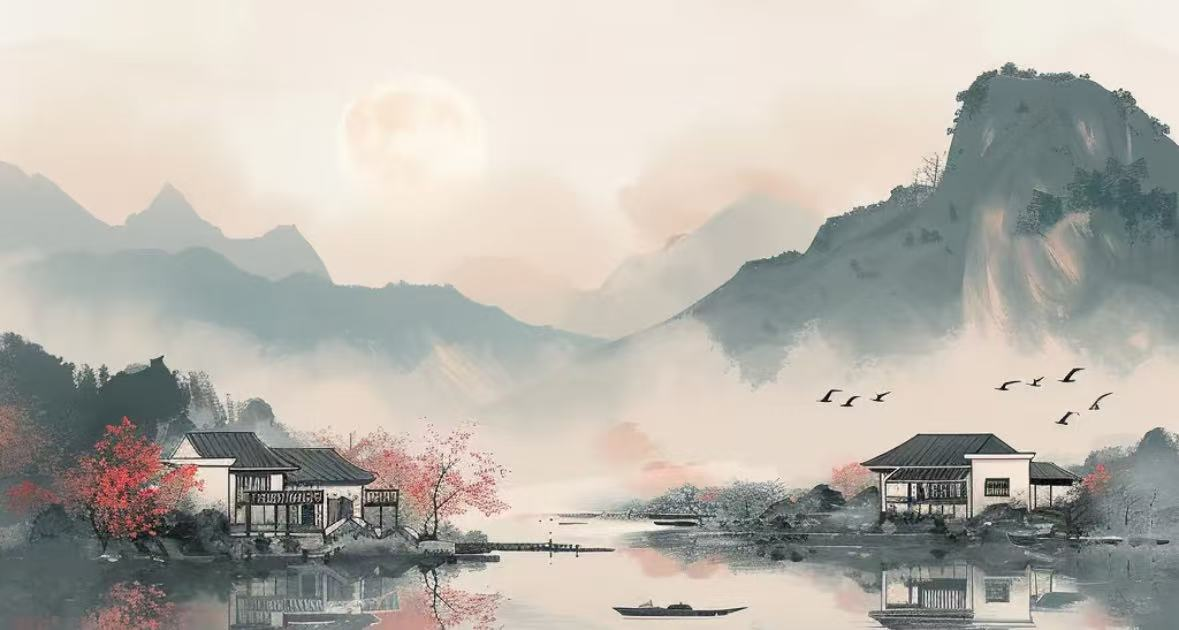
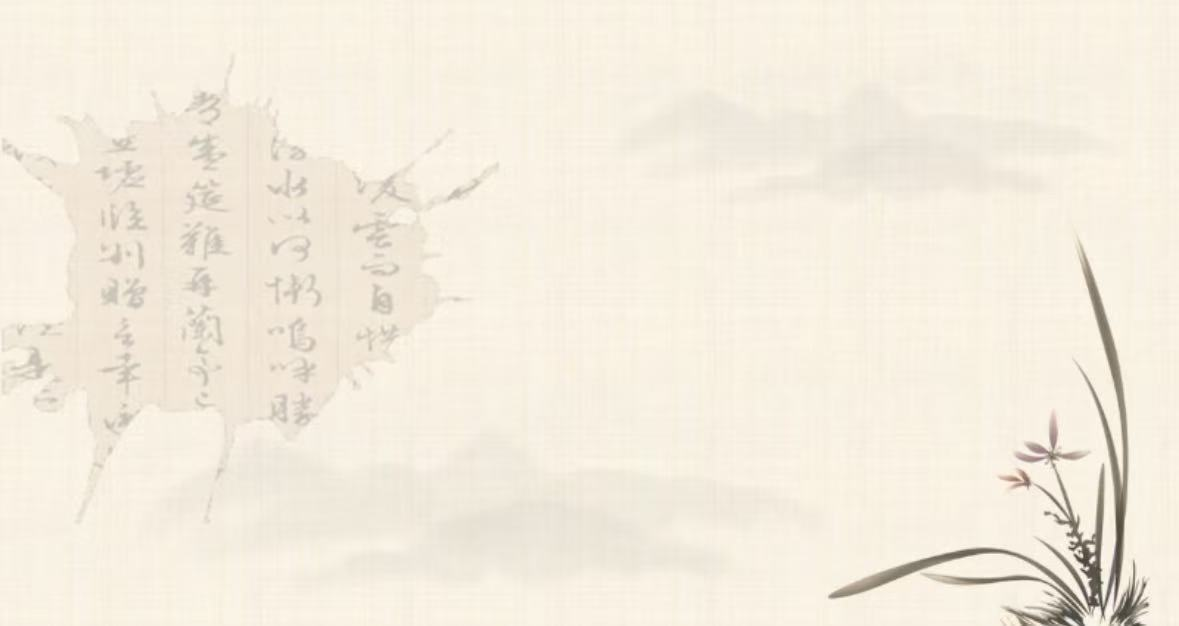
init

diff --git a/css/style.css b/css/style.css
@@ -297,25 +297,27 @@ button { border: none; background: none; cursor: pointer; font: inherit; }
   z-index: 12;
   transform: translate(-50%, -50%);
   display: none;
-  flex-direction: column;
   align-items: center;
   justify-content: center;
-  gap: 10px;
-  width: auto;
-  min-width: 120px;
-  padding: 18px 28px;
-  border-radius: 999px;
+  width: 64px;
+  height: 64px;
+  padding: 0;
+  border-radius: 50%;
   border: 1px solid rgba(255, 255, 255, 0.55);
   background: rgba(0, 0, 0, 0.55);
   color: #fff;
-  font-size: 15px;
-  font-weight: 600;
-  letter-spacing: 2px;
   cursor: pointer;
   pointer-events: auto;
   box-shadow: 0 8px 28px rgba(0, 0, 0, 0.35);
   backdrop-filter: blur(8px);
   transition: background 0.25s, transform 0.25s;
+}
+
+.slide-video-play svg {
+  display: block;
+  width: 28px;
+  height: 28px;
+  margin-left: 3px;
 }
 
 .slide-video-play.is-visible {
@@ -325,11 +327,7 @@ button { border: none; background: none; cursor: pointer; font: inherit; }
 .slide-video-play:hover,
 .slide-video-play:active {
   background: rgba(0, 0, 0, 0.72);
-  transform: translate(-50%, -50%) scale(1.04);
-}
-
-.slide-video-play span {
-  line-height: 1;
+  transform: translate(-50%, -50%) scale(1.06);
 }
 
 .slide-video {

diff --git a/js/main.js b/js/main.js
@@ -304,12 +304,21 @@
       (slideVideo.paused || slideVideo.readyState < 2);
     playBtn.classList.toggle('is-visible', show);
     playBtn.hidden = !show;
+    refreshSoundBtnVisibility();
   }
 
   function hideVideoPlayBtn() {
     if (!playBtn) return;
     playBtn.classList.remove('is-visible');
     playBtn.hidden = true;
+    refreshSoundBtnVisibility();
+  }
+
+  function refreshSoundBtnVisibility() {
+    if (!soundBtn) return;
+    var onVideoSlide = isVideoSlide(slideIndex);
+    var playVisible = playBtn && playBtn.classList.contains('is-visible');
+    soundBtn.classList.toggle('is-visible', onVideoSlide && !playVisible && !isWeChatBrowser());
   }
 
   function bindVideoPlayFallback() {
@@ -389,12 +398,10 @@
 
   function updateSoundBtn() {
     if (!soundBtn) return;
-    var onVideoSlide = slides[slideIndex] && slides[slideIndex].classList.contains('carousel-slide-video');
-    soundBtn.classList.toggle('is-visible', onVideoSlide);
+    refreshSoundBtnVisibility();
     soundBtn.classList.toggle('is-unmuted', videoSoundOn);
     soundBtn.setAttribute('aria-label', videoSoundOn ? '关闭声音' : '开启声音');
     soundBtn.title = videoSoundOn ? '关闭声音' : '开启声音';
-    updateVideoPlayBtn();
   }
 
   function toggleVideoSound() {
@@ -459,9 +466,12 @@
     playBtn.addEventListener('click', function (e) {
       e.preventDefault();
       e.stopPropagation();
-      slideVideo.muted = !videoSoundOn;
+      videoSoundOn = true;
+      slideVideo.muted = false;
+      slideVideo.volume = 1;
       tryPlayVideo(slideVideo).then(function () {
         hideVideoPlayBtn();
+        updateSoundBtn();
       });
     });
     playBtn.addEventListener('mousedown', function (e) {

diff --git a/index.html b/index.html
@@ -5,9 +5,9 @@
   <meta name="viewport" content="width=device-width, initial-scale=1.0">
   <title>繁榴聚籽，同赴九州风月</title>
   <link href="https://fonts.googleapis.com/css2?family=ZCOOL+KuaiLe&display=swap" rel="stylesheet">
-  <link rel="stylesheet" href="css/style.css?v=20260702">
-  <link rel="stylesheet" href="css/responsive.css?v=20260702">
-  <link rel="stylesheet" href="css/index.css?v=20260702">
+  <link rel="stylesheet" href="css/style.css?v=20260703">
+  <link rel="stylesheet" href="css/responsive.css?v=20260703">
+  <link rel="stylesheet" href="css/index.css?v=20260703">
 </head>
 <body>
 
@@ -67,11 +67,10 @@
                 preload="auto"
                 aria-label="主题宣传视频"
               ></video>
-              <button type="button" class="slide-video-play" id="slideVideoPlay" aria-label="播放视频" title="播放视频" hidden>
-                <svg viewBox="0 0 24 24" width="52" height="52" fill="currentColor" aria-hidden="true">
+              <button type="button" class="slide-video-play" id="slideVideoPlay" aria-label="播放" title="播放" hidden>
+                <svg viewBox="0 0 24 24" width="28" height="28" fill="currentColor" aria-hidden="true">
                   <path d="M8 5v14l11-7z"/>
                 </svg>
-                <span>播放视频</span>
               </button>
             </div>
             <div class="slide-caption">
@@ -125,7 +124,7 @@
         <!-- 轮播控制 -->
         <button class="carousel-btn prev" id="carouselPrev" aria-label="上一张">‹</button>
         <button class="carousel-btn next" id="carouselNext" aria-label="下一张">›</button>
-        <button type="button" class="slide-video-sound is-visible" id="slideVideoSound" aria-label="开启声音" title="开启声音">
+        <button type="button" class="slide-video-sound" id="slideVideoSound" aria-label="开启声音" title="开启声音">
           <svg class="icon-muted" viewBox="0 0 24 24" width="22" height="22" fill="currentColor" aria-hidden="true">
             <path d="M16.5 12c0-1.77-1.02-3.29-2.5-4.03v2.21l2.45 2.45c.03-.2.05-.41.05-.63zm2.5 0c0 .94-.2 1.82-.54 2.64l1.51 1.51C20.63 14.91 21 13.5 21 12c0-4.28-2.99-7.86-7-8.77v2.06c2.89.86 5 3.54 5 6.71zM4.27 3L3 4.27 7.73 9H3v6h4l5 5v-6.73l4.25 4.25c-.67.52-1.42.93-2.25 1.18v2.06c1.38-.31 2.63-.95 3.69-1.81L19.73 21 21 19.73l-9-9L4.27 3zM12 4L9.91 6.09 12 8.18V4z"/>
           </svg>
@@ -355,7 +354,7 @@
   </main>
 
   <script src="js/nav.js?v=20260703"></script>
-  <script src="js/main.js?v=20260702"></script>
+  <script src="js/main.js?v=20260703"></script>
   <script src="js/map-provinces.js?v=20260703"></script>
   <script src="js/index.js?v=20260703"></script>
   <script src="js/message-board.js?v=20260628b"></script>

diff --git a/css/responsive.css b/css/responsive.css
@@ -200,14 +200,14 @@ iframe {
 
 @media (max-width: 768px) {
   .slide-video-play {
-    min-width: 108px;
-    padding: 16px 22px;
-    font-size: 14px;
+    width: 56px;
+    height: 56px;
   }
 
   .slide-video-play svg {
-    width: 44px;
-    height: 44px;
+    width: 24px;
+    height: 24px;
+    margin-left: 2px;
   }
 }
 